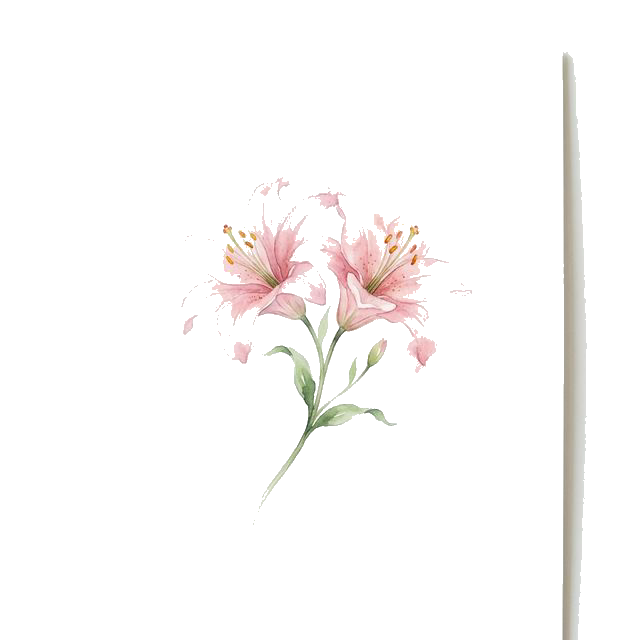
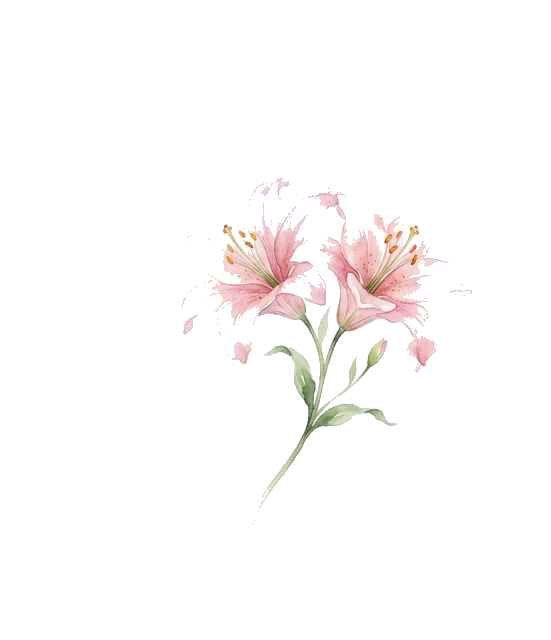
Fix flex container bounds for mobile devices

diff --git a/src/App.css b/src/App.css
@@ -661,6 +661,18 @@
     font-size: 1.5rem;
   }
 
+  .date-input {
+    width: 100%;
+    max-width: 100%;
+    box-sizing: border-box;
+    font-size: 16px;
+    /* iOS zoom-оос сэргийлэх */
+    padding: 12px 14px;
+    -webkit-appearance: none;
+    appearance: none;
+    overflow: hidden;
+  }
+
   .time-slots {
     grid-template-columns: 1fr 1fr;
     gap: 8px;